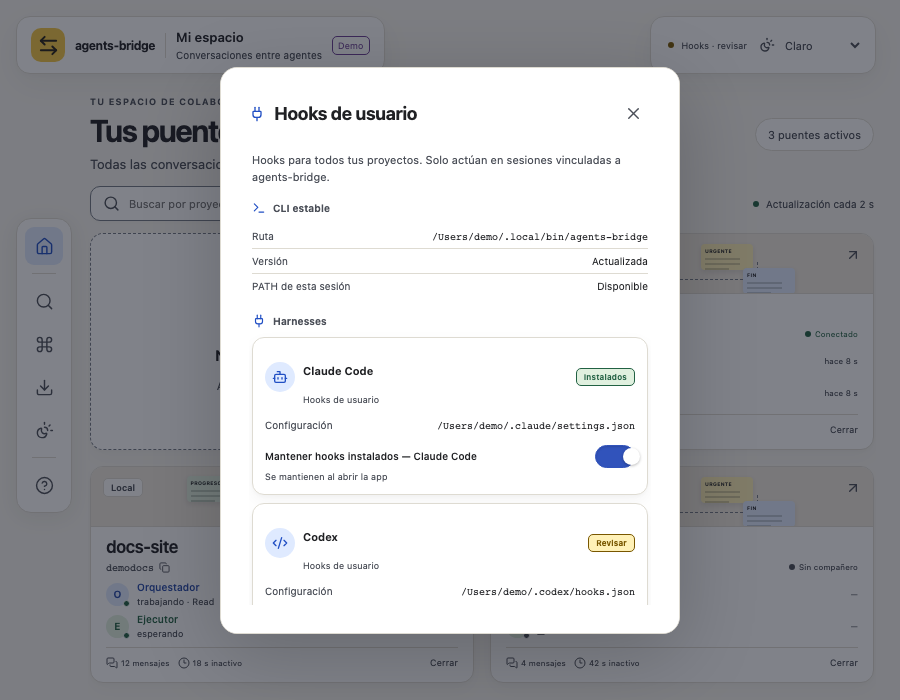
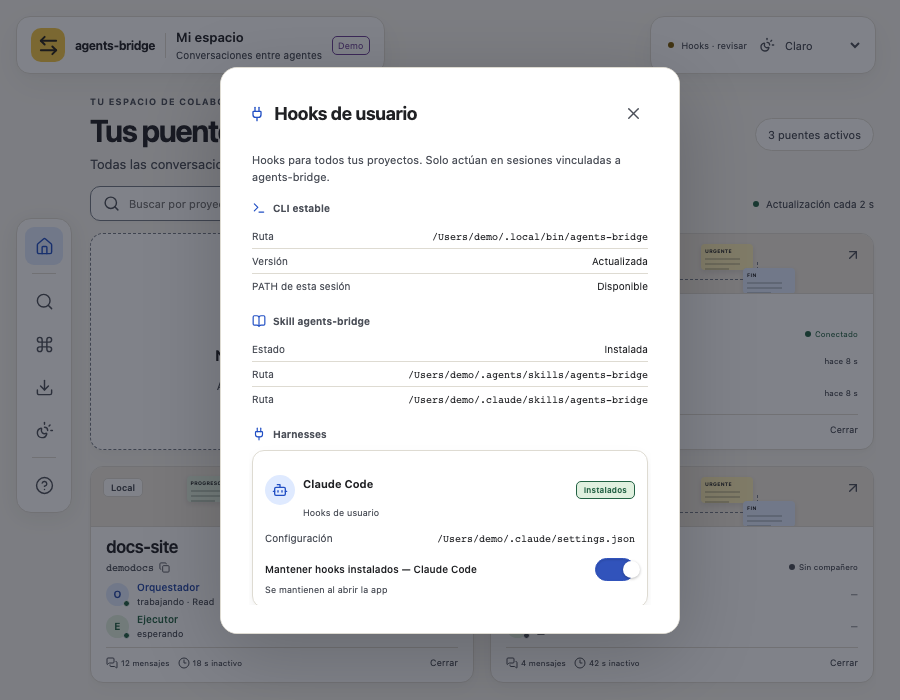
feat: install the agents-bridge skill and keep chat in send order
The desktop chat sorted by server_seq, which is 0 on the local role's own
messages, so they always fell below the other role's. Messages now follow
the journal event_seq at which they reached the bridge.

integration ensure also installs the bundled skill in ~/.agents/skills and
~/.claude/skills, replacing a previous link to the same skill and never a
foreign one. Version 0.5.3.

Changed region(s): [[0.28, 0.45, 0.7156, 0.87], [0.4978, 0.75, 0.7156, 0.87]]

diff --git a/apps/desktop/src/components/IntegrationPanel.tsx b/apps/desktop/src/components/IntegrationPanel.tsx
@@ -1,12 +1,12 @@
 import { useState } from 'react';
-import { Bot, CircleAlert, Code2, Info, Plug, Terminal } from 'lucide-react';
+import { BookOpen, Bot, CircleAlert, Code2, Info, Plug, Terminal } from 'lucide-react';
 import type { ApiClient } from '../api/client';
 import type { IntegrationStatusResult, Harness } from '../api/types';
 import IconButton from './IconButton';
 import Modal from './Modal';
 
 export function hooksNeedReview(status?: IntegrationStatusResult): boolean {
-  return !status || !status.cli_current || !!status.cli_error || Object.values(status.harnesses).some(h => !!h.error || (!h.opted_out && (!h.installed || !!h.trust_note)));
+  return !status || !status.cli_current || !!status.cli_error || (!!status.skill && (!status.skill.installed || !!status.skill.error)) || Object.values(status.harnesses).some(h => !!h.error || (!h.opted_out && (!h.installed || !!h.trust_note)));
 }
 
 type HarnessStatus = IntegrationStatusResult['harnesses'][Harness];
@@ -49,6 +49,14 @@ export default function IntegrationPanel({ client, status, error, onUpdate, onCl
           {status.cli_error && <div role="alert" className="integration-callout integration-callout-error"><CircleAlert size={16} aria-hidden="true"/><p>{status.cli_error}</p></div>}
           {status.path_note && <div className="integration-callout integration-callout-info"><Info size={16} aria-hidden="true"/><p>{status.path_note}</p></div>}
         </section>
+        {status.skill && <section className="integration-section" aria-labelledby="integration-skill-heading">
+          <h3 id="integration-skill-heading"><BookOpen size={14} aria-hidden="true"/>Skill agents-bridge</h3>
+          <dl className="integration-rows">
+            <div><dt>Estado</dt><dd>{status.skill.installed ? 'Instalada' : 'Revisar instalación'}</dd></div>
+            {status.skill.paths.map(path => <div key={path}><dt>Ruta</dt><dd><code>{path}</code></dd></div>)}
+          </dl>
+          {status.skill.error && <div role="alert" className="integration-callout integration-callout-error"><CircleAlert size={16} aria-hidden="true"/><p>{status.skill.error}</p></div>}
+        </section>}
         <section className="integration-section" aria-labelledby="integration-harness-heading">
           <h3 id="integration-harness-heading"><Plug size={14} aria-hidden="true"/>Harnesses</h3>
           {(['claude', 'codex'] as const).map(harness => {

diff --git a/apps/desktop/src/model.ts b/apps/desktop/src/model.ts
@@ -7,12 +7,16 @@ export const roleState = (i: Instance, r: Role): RoleState | undefined => i.role
 export function bodyParts(body: string) { const [first, ...rest] = body.split('\n'); return labels.some(l => l === first) ? { label: first, body: rest.join('\n') } : { label: 'Mensaje', body }; }
 export const symbols: Record<string, string> = { 'queued-ram': '·', accepted: '✓', received: '✓', delivered: '✓✓', rejected: '✗' };
 export const statusNames: Record<string, string> = { 'queued-ram': 'Enviando', accepted: 'Aceptado', received: 'Recibido', delivered: 'Entregado', rejected: 'Rechazado' };
-export type ChatState = { messages: Message[]; statuses: Record<string, string> };
+// order keeps the journal event_seq of each message: the local role's own messages
+// arrive with server_seq 0, so server_seq cannot order a mixed conversation.
+export type ChatState = { messages: Message[]; statuses: Record<string, string>; order?: Record<string, number> };
 export function applyEvent(state: ChatState, event: Event, role: Role): ChatState {
   if (event.event === 'message') {
     const m = event.data.message;
-    const messages = [...state.messages.filter(p => p.message_id !== m.message_id), m].sort((a, b) => (a.server_seq || Infinity) - (b.server_seq || Infinity));
-    return { messages, statuses: { ...state.statuses, [m.message_id]: state.statuses[m.message_id] || event.data.status || (messageRole(m) === role ? 'accepted' : 'received') } };
+    const order = { ...state.order, [m.message_id]: Math.min(state.order?.[m.message_id] ?? Infinity, event.data.event_seq) };
+    const key = (x: Message) => order[x.message_id] ?? Infinity;
+    const messages = [...state.messages.filter(p => p.message_id !== m.message_id), m].sort((a, b) => key(a) === key(b) ? 0 : key(a) - key(b));
+    return { order, messages, statuses: { ...state.statuses, [m.message_id]: state.statuses[m.message_id] || event.data.status || (messageRole(m) === role ? 'accepted' : 'received') } };
   }
   if (event.event === 'delivery') return { ...state, statuses: { ...state.statuses, [event.data.message_id]: event.data.status } };
   return state;

diff --git a/apps/desktop/src/demo/client.ts b/apps/desktop/src/demo/client.ts
@@ -28,6 +28,7 @@ export function createDemoClient(): ApiClient {
   const health = (id: string): Health => { const i = instances.find(i => i.instance_id === id); if (!i) throw new Error('Puente cerrado'); return { instance_id: id, state: 'running', pid: i.pid, peer_connected: i.peer_connected, fin_received: false, latest_server_seq: i.latest_server_seq, role_states: i.role_states, unread: id.startsWith('demo-new') ? 0 : 2 }; };
   let integration: IntegrationStatusResult = {
     cli_path: '/Users/demo/.local/bin/agents-bridge', cli_on_path: true, cli_current: true,
+    skill: { installed: true, paths: ['/Users/demo/.agents/skills/agents-bridge', '/Users/demo/.claude/skills/agents-bridge'] },
     harnesses: {
       claude: { installed: true, opted_out: false, path: '/Users/demo/.claude/settings.json' },
       codex: { installed: true, opted_out: false, path: '/Users/demo/.codex/hooks.json', trust_note: 'Codex: acepta los hooks como confiables y marca cada proyecto como trusted.' },
@@ -40,7 +41,7 @@ export function createDemoClient(): ApiClient {
       integration = { ...integration, harnesses: { ...integration.harnesses, [harness]: { ...integration.harnesses[harness], installed: enabled, opted_out: !enabled } } };
       return { ...integration, changed: true };
     },
-    hello: async () => { void marker; return { engine_version: 'v0.5.2-demo', contract_version: 1 }; },
+    hello: async () => { void marker; return { engine_version: 'v0.5.3-demo', contract_version: 1 }; },
     list: async () => ({ instances: [...instances] }), health: async a => health(a.instance_id),
     subscribe: async a => { const sub = `demo-sub-${++counter}`; subs.set(sub, a.instance_id); (history.get(a.instance_id) || []).forEach((message, n) => { events.forEach(fn => fn({ v: 1, sub, event: 'message', data: { instance_id: a.instance_id, event_seq: n * 2 + 1, message, status: ['delivered', 'received', 'accepted', 'received', 'rejected', 'delivered', 'queued-ram'][n] } })); }); return { sub }; },
     unsubscribe: async a => { subs.delete(a.sub); return { unsubscribed: a.sub }; },

diff --git a/apps/desktop/src/screens/BridgeView.tsx b/apps/desktop/src/screens/BridgeView.tsx
@@ -58,10 +58,10 @@ export default function BridgeView({client,instance,onToast,searchRequest,onPrev
   async function send(body: string, label: Label) {
     const draftId = `draft-${crypto.randomUUID()}`;
     const draft: Message = { protocol_version: 1, instance_id: instance.instance_id, message_id: draftId, client_seq: 0, server_seq: 0, sender_id: 'human', sender_role: role === 'orchestrator' ? 'mac-orchestrator' : 'win-executor', kind: 'text', body: `${label}\n${body}`, body_sha256: '', source: 'human-operator', created_at: new Date().toISOString(), accepted_at: '' };
-    setChat(s => ({ messages: [...s.messages, draft], statuses: { ...s.statuses, [draftId]: 'queued-ram' } }));
+    setChat(s => ({ ...s, messages: [...s.messages, draft], statuses: { ...s.statuses, [draftId]: 'queued-ram' } }));
     try {
       const result = await client.send({ instance_id: instance.instance_id, body, label }); setRole(result.role);
-      setChat(s => { const messages = s.messages.filter(m => m.message_id !== draftId); if (!messages.some(m => m.message_id === result.message_id)) messages.push({ ...draft, message_id: result.message_id, sender_role: result.role === 'orchestrator' ? 'mac-orchestrator' : 'win-executor' }); return { messages, statuses: { ...s.statuses, [result.message_id]: s.statuses[result.message_id] || 'accepted' } }; });
+      setChat(s => { const messages = s.messages.filter(m => m.message_id !== draftId); if (!messages.some(m => m.message_id === result.message_id)) messages.push({ ...draft, message_id: result.message_id, sender_role: result.role === 'orchestrator' ? 'mac-orchestrator' : 'win-executor' }); return { ...s, messages, statuses: { ...s.statuses, [result.message_id]: s.statuses[result.message_id] || 'accepted' } }; });
     } catch (e) { setChat(s => ({ ...s, statuses: { ...s.statuses, [draftId]: 'rejected' } })); toast.current('Mensaje rechazado. Se conserva el borrador.'); throw e; }
   }
   const sent = chat.messages.filter(m => messageRole(m) === role);

diff --git a/apps/desktop/src/model.test.ts b/apps/desktop/src/model.test.ts
@@ -7,3 +7,12 @@ test('replay deduplicates messages and preserves delivery before message', () =>
   const state=applyEvent(applyEvent(applyEvent({messages:[],statuses:{}},delivery,'orchestrator'),event,'orchestrator'),event,'orchestrator');
   expect(state.messages).toHaveLength(1); expect(state.statuses[m.message_id]).toBe('delivered');
 });
+test('messages follow bridge order even when local messages carry server_seq 0', () => {
+  const [base] = demoMessages();
+  const msg = (id: string, role: 'mac-orchestrator' | 'win-executor', server_seq: number) => ({ ...base, message_id: id, sender_role: role, server_seq, body: `TAREA\n${id}` });
+  const ev = (event_seq: number, m: ReturnType<typeof msg>) => ({ v: 1 as const, sub: 's', event: 'message' as const, data: { instance_id: base.instance_id, event_seq, message: m } });
+  const events = [ev(2, msg('tarea', 'mac-orchestrator', 0)), ev(5, msg('resultado', 'win-executor', 2)), ev(7, msg('pregunta', 'mac-orchestrator', 0)), ev(10, msg('respuesta', 'win-executor', 4)), ev(12, msg('fin', 'mac-orchestrator', 0))];
+  let state = { messages: [], statuses: {} } as Parameters<typeof applyEvent>[0];
+  for (const e of [...events, events[1]]) state = applyEvent(state, e, 'orchestrator');
+  expect(state.messages.map(m => m.message_id)).toEqual(['tarea', 'resultado', 'pregunta', 'respuesta', 'fin']);
+});

diff --git a/apps/desktop/src/api/types.ts b/apps/desktop/src/api/types.ts
@@ -1,5 +1,5 @@
 /* Generado desde engine/api/schema.json. No editar.
- * SHA256: 49e94fd3ab56ff4b6068ba126640f9f9221ecac0eb65a489d791c5ed754a8b56
+ * SHA256: 6475cc69072347e4d3e10fa6550ba735f2a9420c8b70c45352f118d38ad7e59a
  * npm run generate:types
  */
 
@@ -220,12 +220,18 @@ export interface IntegrationStatusResult {
   cli_current: boolean;
   cli_error?: string;
   path_note?: string;
+  skill?: SkillIntegration;
 }
 export interface HarnessIntegration {
   installed: boolean;
   opted_out: boolean;
   path: string;
   trust_note?: string;
+  error?: string;
+}
+export interface SkillIntegration {
+  installed: boolean;
+  paths: string[];
   error?: string;
 }
 export interface IntegrationEnsureResult {
@@ -239,6 +245,7 @@ export interface IntegrationEnsureResult {
   cli_error?: string;
   path_note?: string;
   changed: boolean;
+  skill?: SkillIntegration;
 }
 export interface Failure {
   v: 1;

diff --git a/apps/desktop/src/components/IntegrationPanel.test.tsx b/apps/desktop/src/components/IntegrationPanel.test.tsx
@@ -68,3 +68,14 @@ test('state badges and callout backgrounds keep WCAG contrast in both themes', (
     }
   }
 });
+test('skill status is shown and a failed skill install needs review', async () => {
+  const client = createDemoClient(), status = await client.integrationStatus();
+  status.harnesses.codex.trust_note = undefined;
+  expect(hooksNeedReview(status)).toBe(false);
+  render(<IntegrationPanel client={client} status={status} onUpdate={()=>{}} onClose={()=>{}}/>);
+  expect(screen.getByText('Skill agents-bridge')).toBeDefined();
+  expect(screen.getByText('Instalada')).toBeDefined();
+  expect(screen.getByText('/Users/demo/.claude/skills/agents-bridge')).toBeDefined();
+  status.skill = { installed: false, paths: status.skill!.paths, error: 'skill ajena; no se reemplazó' };
+  expect(hooksNeedReview(status)).toBe(true);
+});

diff --git a/engine/internal/integration/skill.go b/engine/internal/integration/skill.go
@@ -1,0 +1,114 @@
+package integration
+
+import (
+	"bytes"
+	_ "embed"
+	"errors"
+	"os"
+	"path/filepath"
+)
+
+// skillDoc is a copy of .agents/skills/agents-bridge/SKILL.md; go:embed cannot
+// reach outside the module, and a test keeps both files identical.
+//
+//go:embed skill/SKILL.md
+var skillDoc []byte
+
+const skillName = "agents-bridge"
+
+type SkillStatus struct {
+	Installed bool     `json:"installed"`
+	Paths     []string `json:"paths"`
+	Error     string   `json:"error,omitempty"`
+}
+
+// skillDirs lists where Codex (~/.agents/skills) and Claude Code
+// (~/.claude/skills) look for user skills. A Claude skills directory linked to
+// the shared one counts once.
+func (o EnsureOptions) skillDirs() []string {
+	var dirs []string
+	seen := map[string]bool{}
+	for _, parent := range []string{filepath.Join(o.Home, ".agents", "skills"), filepath.Join(o.Home, ".claude", "skills")} {
+		key := parent
+		if resolved, err := filepath.EvalSymlinks(parent); err == nil {
+			key = resolved
+		}
+		if seen[key] {
+			continue
+		}
+		seen[key] = true
+		dirs = append(dirs, filepath.Join(parent, skillName))
+	}
+	return dirs
+}
+
+// ownedSkill reports whether a SKILL.md belongs to agents-bridge, by the name
+// in its frontmatter; any other skill in that directory is left untouched.
+func ownedSkill(doc []byte) bool {
+	return bytes.HasPrefix(doc, []byte("---\n")) && bytes.Contains(doc, []byte("\nname: "+skillName+"\n"))
+}
+
+func skillStatus(o EnsureOptions) SkillStatus {
+	s := SkillStatus{Installed: true, Paths: o.skillDirs()}
+	for _, dir := range s.Paths {
+		info, err := os.Lstat(dir)
+		doc, readErr := os.ReadFile(filepath.Join(dir, "SKILL.md"))
+		if err != nil || !info.IsDir() || readErr != nil || !bytes.Equal(doc, skillDoc) {
+			s.Installed = false
+		}
+	}
+	return s
+}
+
+func installSkill(dir string) (bool, error) {
+	info, err := os.Lstat(dir)
+	switch {
+	case errors.Is(err, os.ErrNotExist):
+	case err != nil:
+		return false, err
+	case info.Mode()&os.ModeSymlink != 0:
+		// An earlier manual install linked a checkout. Replace only the link;
+		// a link to someone else's skill is kept.
+		doc, readErr := os.ReadFile(filepath.Join(dir, "SKILL.md"))
+		if readErr == nil && !ownedSkill(doc) {
+			return false, errors.New("enlace de skill ajeno en " + dir + "; no se reemplazó")
+		}
+		if err := os.Remove(dir); err != nil {
+			return false, err
+		}
+	case !info.IsDir():
+		return false, errors.New("destino de skill ajeno en " + dir + "; no se reemplazó")
+	default:
+		doc, readErr := os.ReadFile(filepath.Join(dir, "SKILL.md"))
+		if readErr == nil && bytes.Equal(doc, skillDoc) {
+			return false, nil
+		}
+		if readErr == nil && !ownedSkill(doc) {
+			return false, errors.New("skill ajena en " + dir + "; no se reemplazó")
+		}
+	}
+	if err := os.MkdirAll(dir, 0755); err != nil {
+		return false, err
+	}
+	if err := atomicFile(filepath.Join(dir, "SKILL.md"), skillDoc, 0644); err != nil {
+		return false, err
+	}
+	return true, nil
+}
+
+func ensureSkill(o EnsureOptions) (SkillStatus, bool) {
+	changed := false
+	var failure error
+	for _, dir := range o.skillDirs() {
+		c, err := installSkill(dir)
+		changed = changed || c
+		if err != nil && failure == nil {
+			failure = err
+		}
+	}
+	s := skillStatus(o)
+	if failure != nil {
+		s.Error = failure.Error()
+	}
+	return s, changed
+}

diff --git a/engine/internal/integration/skill_test.go b/engine/internal/integration/skill_test.go
@@ -1,0 +1,77 @@
+package integration
+
+import (
+	"bytes"
+	"context"
+	"os"
+	"path/filepath"
+	"testing"
+)
+
+// The embedded copy is what the app installs; it must match the repo skill.
+func TestEmbeddedSkillMatchesRepository(t *testing.T) {
+	repo, err := os.ReadFile(filepath.Join("..", "..", "..", ".agents", "skills", "agents-bridge", "SKILL.md"))
+	if err != nil {
+		t.Fatal(err)
+	}
+	if !bytes.Equal(repo, skillDoc) {
+		t.Fatal("engine/internal/integration/skill/SKILL.md desactualizada: cópiala desde .agents/skills/agents-bridge/SKILL.md")
+	}
+}
+
+func TestEnsureInstallsSkillReplacingOwnSymlink(t *testing.T) {
+	o := isolatedEnsure(t)
+	ctx := context.Background()
+	// A previous manual install linked the skill into a checkout.
+	checkout := filepath.Join(o.Home, "checkout", "agents-bridge")
+	os.MkdirAll(checkout, 0755)
+	os.WriteFile(filepath.Join(checkout, "SKILL.md"), []byte("---\nname: agents-bridge\n---\nvieja\n"), 0644)
+	agents := filepath.Join(o.Home, ".agents", "skills")
+	os.MkdirAll(agents, 0755)
+	if err := os.Symlink(checkout, filepath.Join(agents, "agents-bridge")); err != nil {
+		t.Skip("symlinks no disponibles:", err)
+	}
+	r, err := Ensure(ctx, o)
+	if err != nil || !r.Skill.Installed || r.Skill.Error != "" {
+		t.Fatal(r.Skill, err)
+	}
+	for _, dir := range []string{filepath.Join(agents, "agents-bridge"), filepath.Join(o.Home, ".claude", "skills", "agents-bridge")} {
+		info, err := os.Lstat(dir)
+		if err != nil || !info.IsDir() {
+			t.Fatal("skill no es un directorio propio:", dir, err)
+		}
+		got, _ := os.ReadFile(filepath.Join(dir, "SKILL.md"))
+		if !bytes.Equal(got, skillDoc) {
+			t.Fatal("contenido de skill incorrecto en", dir)
+		}
+	}
+	if b, _ := os.ReadFile(filepath.Join(checkout, "SKILL.md")); string(b) != "---\nname: agents-bridge\n---\nvieja\n" {
+		t.Fatal("se modificó el destino del enlace")
+	}
+	if r, err = Ensure(ctx, o); err != nil || r.Changed {
+		t.Fatal("ensure repetido escribió", r, err)
+	}
+}
+
+func TestEnsureSkillDedupesLinkedClaudeDirAndKeepsForeign(t *testing.T) {
+	o := isolatedEnsure(t)
+	agents := filepath.Join(o.Home, ".agents", "skills")
+	os.MkdirAll(agents, 0755)
+	os.MkdirAll(filepath.Join(o.Home, ".claude"), 0755)
+	if err := os.Symlink(agents, filepath.Join(o.Home, ".claude", "skills")); err != nil {
+		t.Skip("symlinks no disponibles:", err)
+	}
+	foreign := filepath.Join(agents, "agents-bridge")
+	os.MkdirAll(foreign, 0755)
+	os.WriteFile(filepath.Join(foreign, "SKILL.md"), []byte("---\nname: otra\n---\n"), 0644)
+	r, _ := Ensure(context.Background(), o)
+	if r.Skill.Installed || r.Skill.Error == "" {
+		t.Fatal("sobrescribió una skill ajena", r.Skill)
+	}
+	if len(r.Skill.Paths) != 1 {
+		t.Fatal("rutas duplicadas", r.Skill.Paths)
+	}
+	if b, _ := os.ReadFile(filepath.Join(foreign, "SKILL.md")); string(b) != "---\nname: otra\n---\n" {
+		t.Fatal("modificó la skill ajena")
+	}
+}

diff --git a/engine/internal/integration/ensure.go b/engine/internal/integration/ensure.go
@@ -53,6 +53,7 @@ type StatusResult struct {
 	CLICurrent bool                     `json:"cli_current"`
 	CLIError   string                   `json:"cli_error,omitempty"`
 	PathNote   string                   `json:"path_note,omitempty"`
+	Skill      SkillStatus              `json:"skill"`
 }
 type EnsureResult struct {
 	StatusResult
@@ -222,7 +223,7 @@ func configured(r Result, path string) bool {
 	return true
 }
 func status(o EnsureOptions, s State) StatusResult {
-	r := StatusResult{CLIPath: o.cliPath(), Harnesses: map[string]HarnessStatus{}}
+	r := StatusResult{CLIPath: o.cliPath(), Harnesses: map[string]HarnessStatus{}, Skill: skillStatus(o)}
 	source, se := os.ReadFile(o.Executable)
 	dest, de := os.ReadFile(r.CLIPath)
 	info, ie := os.Lstat(r.CLIPath)
@@ -287,8 +288,11 @@ func Ensure(ctx context.Context, o EnsureOptions) (EnsureResult, error) {
 }
 func ensure(ctx context.Context, o EnsureOptions, s *State) (EnsureResult, error) {
 	r := EnsureResult{StatusResult: status(o, *s)}
+	// The skill does not depend on the CLI copy, so a busy CLI cannot block it.
+	skill, skillChanged := ensureSkill(o)
+	r.Skill = skill
 	changed, e := installCLI(ctx, o)
-	r.Changed = changed
+	r.Changed = changed || skillChanged
 	if e != nil {
 		r.CLIError = e.Error()
 		return r, nil
@@ -315,6 +319,7 @@ func ensure(ctx context.Context, o EnsureOptions, s *State) (EnsureResult, error
 	}
 	refreshed := status(o, *s)
 	refreshed.CLIError = r.CLIError
+	refreshed.Skill = skill
 	r.StatusResult = refreshed
 	for h, e := range failures {
 		hs := r.Harnesses[h]

diff --git a/engine/cmd/agents-bridge/version_test.go b/engine/cmd/agents-bridge/version_test.go
@@ -3,7 +3,7 @@ package main
 import "testing"
 
 func TestReleaseVersion(t *testing.T) {
-	if appVersion != "v0.5.2" {
-		t.Fatalf("release version = %s, want v0.5.2", appVersion)
+	if appVersion != "v0.5.3" {
+		t.Fatalf("release version = %s, want v0.5.3", appVersion)
 	}
 }

diff --git a/engine/cmd/agents-bridge/main.go b/engine/cmd/agents-bridge/main.go
@@ -29,7 +29,7 @@ import (
 
 const (
 	commandName = "agents-bridge"
-	appVersion  = "v0.5.2"
+	appVersion  = "v0.5.3"
 )
 
 func main() {
